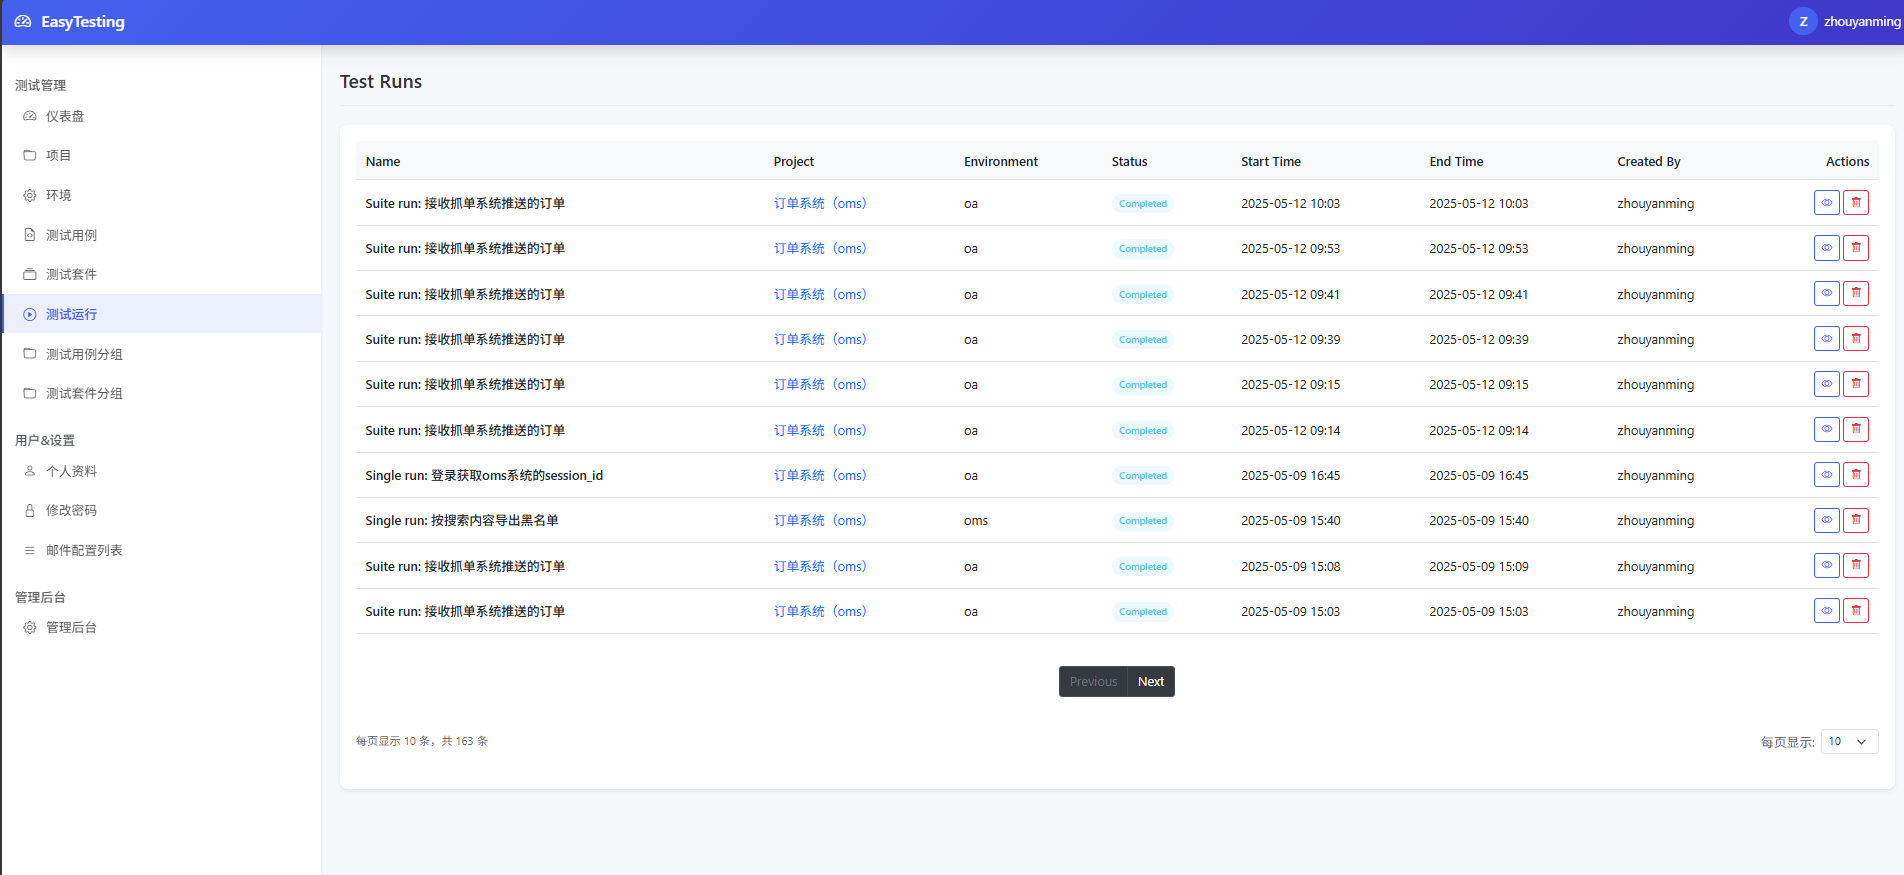
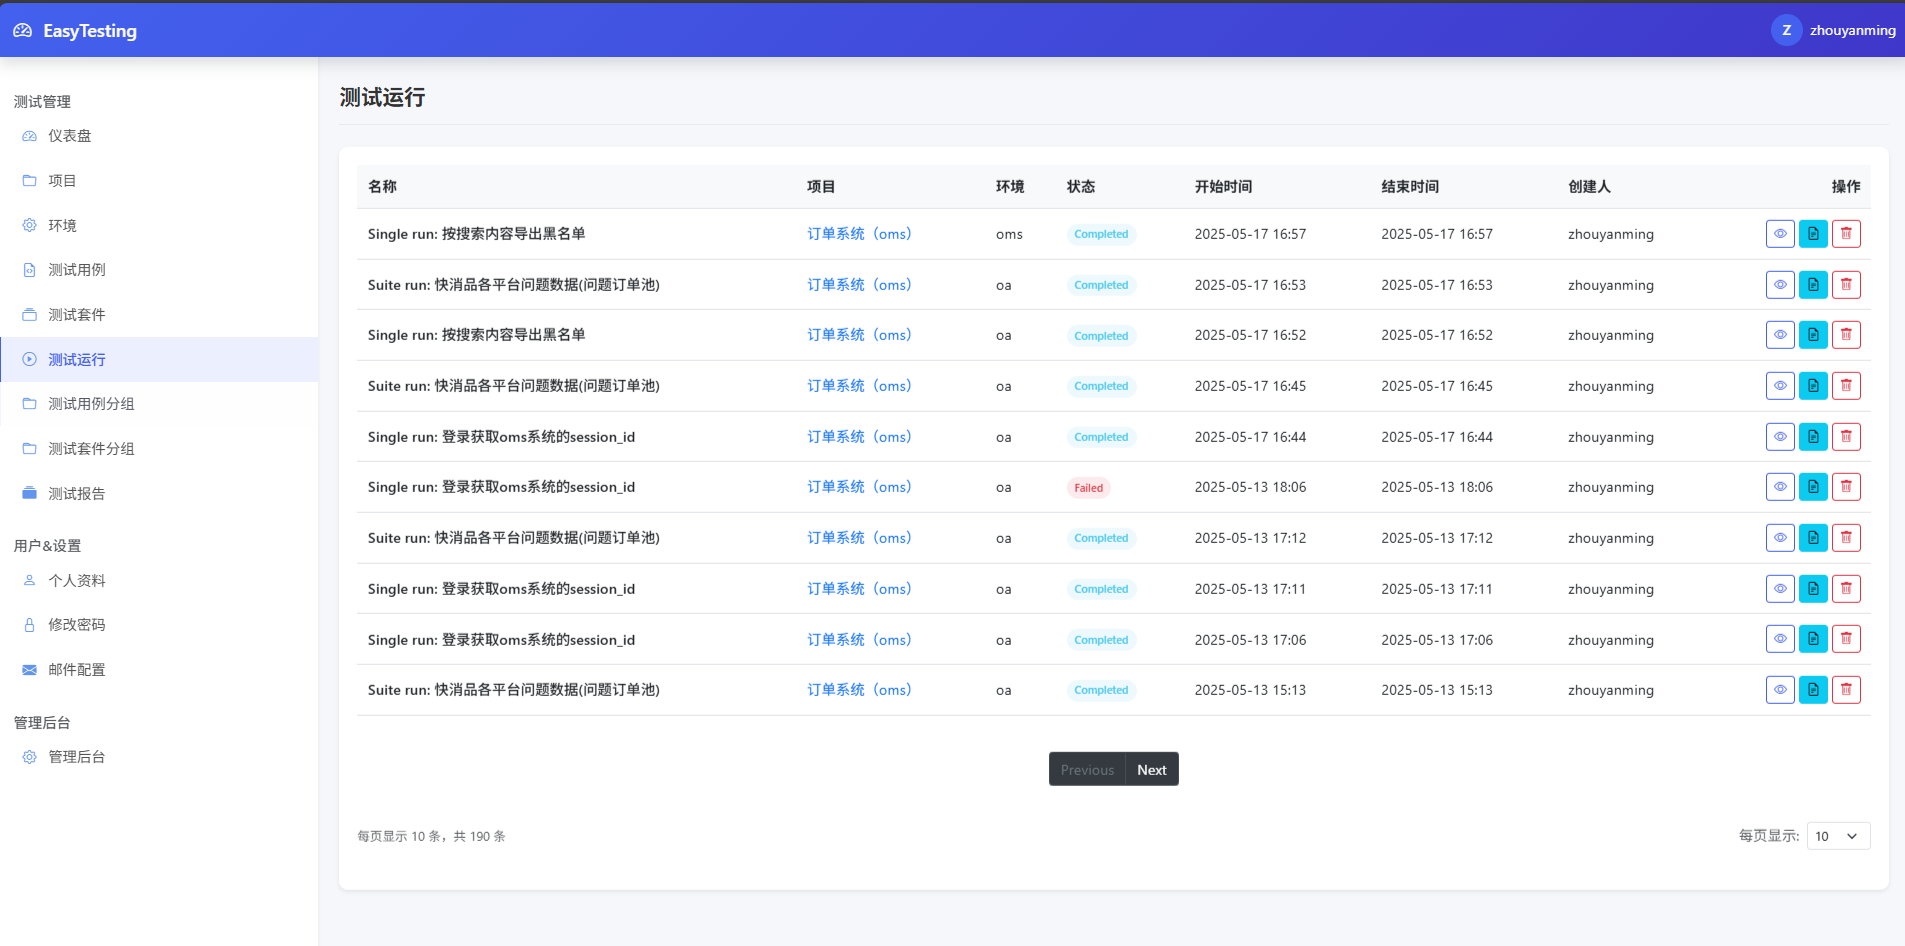
优化 README.md

diff --git a/README.md b/README.md
@@ -1,12 +1,14 @@
 # EasyTesting
 
-使用Django、Django REST框架、SQLite、Bootstrap和HTTPRunner构建的综合测试平台。
+使用Django、Django REST框架、SQLite、Bootstrap和HTTPRunner构建的综合测试平台，包含测试前台和后台管理后台，后台管理系统使用Django-SimpleUI构建。
 
 ## 推荐版本
-- python3.9 
-- Django==4.2.11 
+
+- python3.9
+- Django==4.2.11
 - djangorestframework==3.15.2
 - httprunner==4.3.0
+- django-simpleui==2025.5.17
 
 ## 功能特点
 
@@ -15,100 +17,142 @@
 - 使用请求详细信息和验证规则创建API测试用例
 - 将测试用例组织到测试套件中
 - 执行测试并查看结果
+- 通过执行结果生成测试报告
 - 用于与其他工具集成的RESTful API
 
 ## 快速开始
 
-1. Clone the repository
-2. Create a virtual environment:
-   \`\`\`
+1. 拉取代码:
+
+```
+   git clone https://gitee.com/joyamon/easy-testing.git
+```
+
+2. 创建虚拟环境:
+   ```
    python -m venv venv
-   source venv/bin/activate  # On Windows: venv\Scripts\activate
-   \`\`\`
-3. Install dependencies:
-   \`\`\`
+   source venv/bin/activate 
+   ```
+3. 按照依赖:
+   ```
    pip install -r requirements.txt
-   \`\`\`
-4. Run migrations:
-   \`\`\`
+   ```
+4. 生成迁移文件并迁移数据库:
+   ```
+   python manage.py makemigrations
    python manage.py migrate
-   \`\`\`
-5. Create a superuser:
-   \`\`\`
+   ```
+5. 创建管理员:
+   ```
    python manage.py createsuperuser
-   \`\`\`
-6. Run the development server:
-   \`\`\`
+   ```
+6. 启动服务器:
+   ```
    python manage.py runserver
-   \`\`\`
+   ```
 
 ## 使用
 
-1. Access the admin interface at http://localhost:8000/admin/
-2. Log in with your superuser credentials
-3. Create projects, environments, test cases, and test suites
-4. Execute tests and view results
+1. 点击 http://localhost:8000/ 访问
+2. 使用账号密码登录
+3. 创建项目、环境、测试用例和测试套件
+4. 执行测试用例并查看结果
 
 ## 效果截图
 
 ### 注册
+
 <img src="static/pic/注册.png" />
 
 ### 登录
+
 <img src="static/pic/登录.png" />
 
 ### 面板
+
 <img src="static/pic/Dashboard.png" />
 
 ### 项目
+
 <img src="static/pic/project.png" />
 
 ### 项目详情
+
 <img src="static/pic/projectDetails.png" />
 
 ### 环境
+
 <img src="static/pic/Environments.png" />
 
 ### 测试用例
+
 <img src="static/pic/Test Cases .png" />
 
 ### 测试用例详情
+
 <img src="static/pic/caseDetail.png" />
 
 ### 测试套件
+
 <img src="static/pic/Test Suites .png" />
 
 ### 测试套件详情
+
 <img src="static/pic/suiteDetail.png" />
 
 ### 测试运行
+
 <img src="static/pic/Test Runs .png" />
 
 ### 测试结果
+
 <img src="static/pic/testresultsDetail.png" />
 
 ### 测试用例分组
+
 <img src="static/pic/All Test Case Groups .png" />
 
 ### 测试套件分组
+
 <img src="static/pic/All Test Suite Groups  .png" />
 
 ### 个人资料
+
 <img src="static/pic/个人资料.png" />
 
 ### 修改密码
+
 <img src="static/pic/修改密码.png" />
 
 ### 邮件配置列表
+
 <img src="static/pic/邮件配置列表.png" />
 
+### 测试报告列表
+
+<img src="static/pic/report_list.png" />
+
+### 测试报告详情
+
+<img src="static/pic/report_details.png" />
 
 ### 测试管理后台
+
 <img src="static/pic/后台管理.png" />
 
 ### 觉得项目不错，请作者喝一杯咖啡
+
 <img src="static/pic/pay.jpg" width="300" />
 
 ## License
-This project is licensed under the MIT License.
 
+本项目根据MIT许可证获得许可
+
+## 致谢
+
+- [Django](https://www.djangoproject.com/)
+- [Django REST framework](https://www.django-rest-framework.org/)
+- [SQLite](https://www.sqlite.org/index.html)
+- [Bootstrap](https://getbootstrap.com/)
+- [HTTPRunner](https://httprunner.com/)
+- [Django-SimpleUI](https://github.com/xui2013/django-simpleui)
